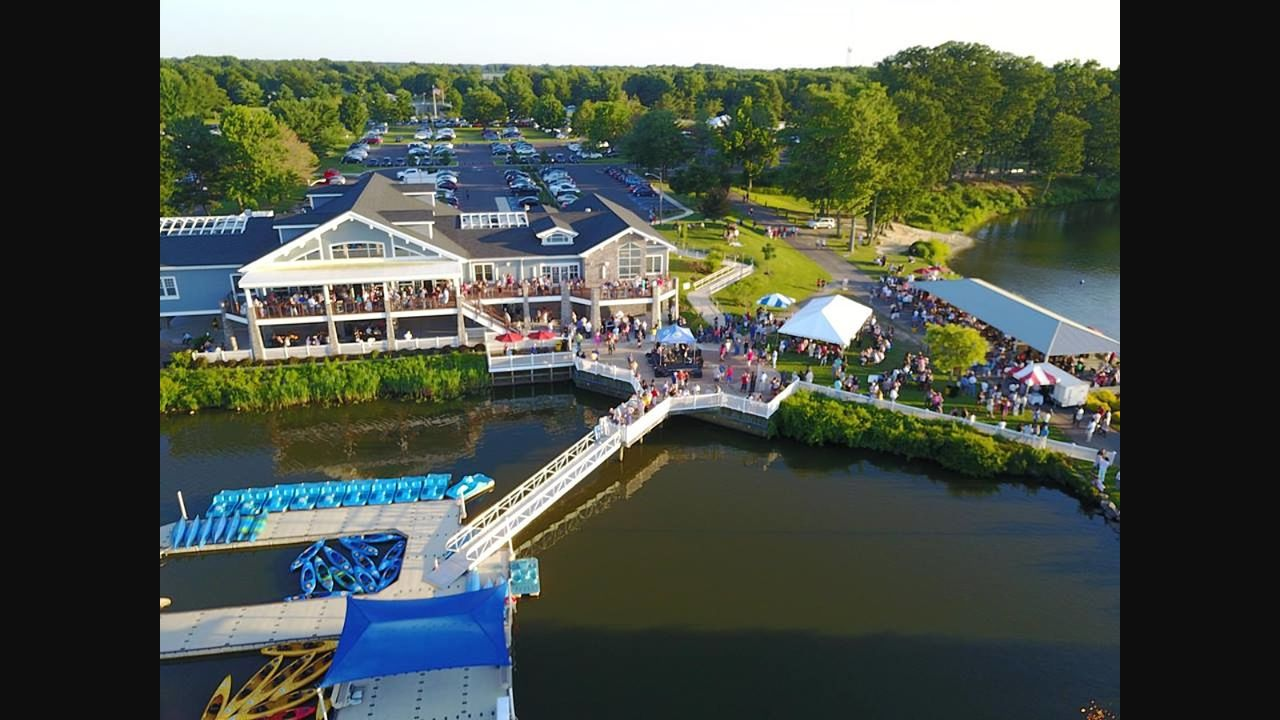
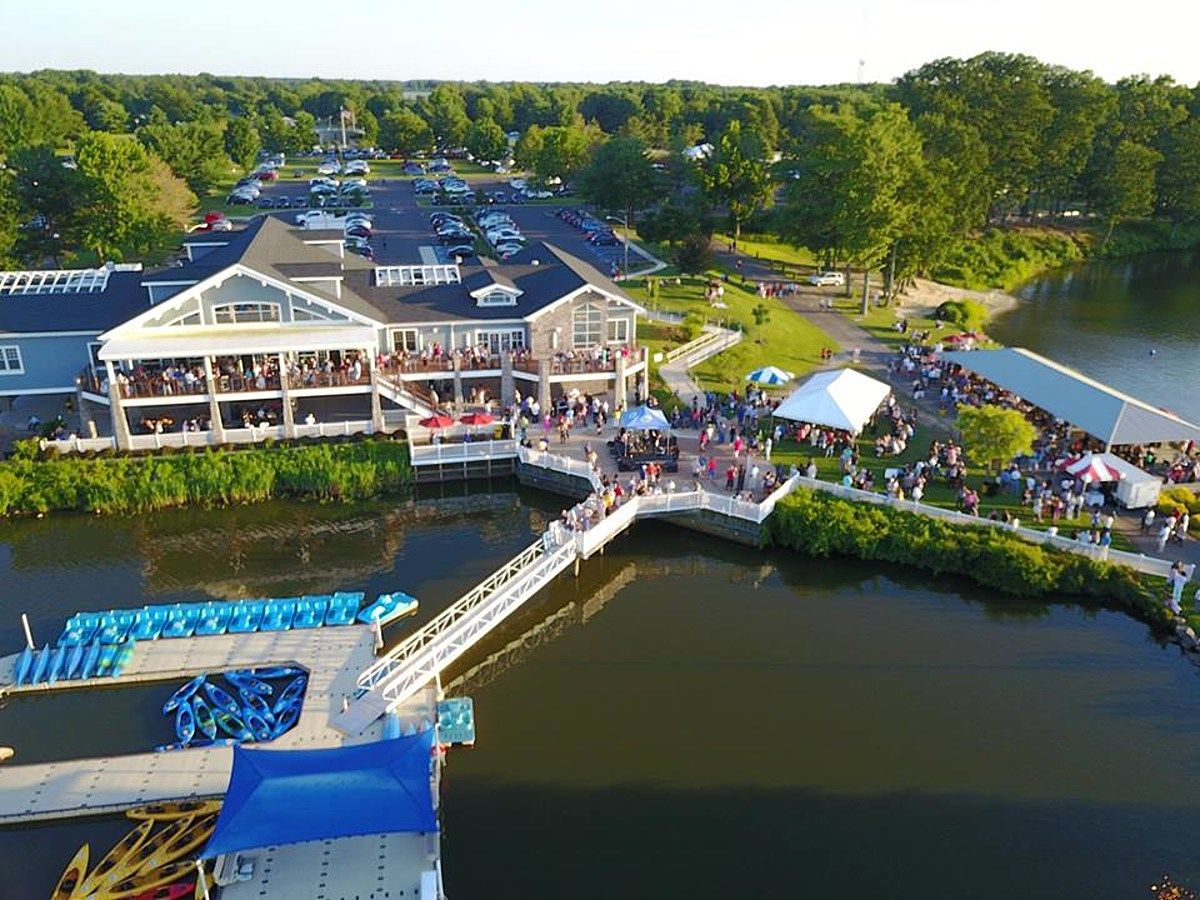
Fix images (remove letterbox bars), reframe Executive photo on Benson

diff --git a/src/App.css b/src/App.css
@@ -237,8 +237,8 @@ h4 { font-size: .9rem; font-weight: 700; color: var(--black); margin-bottom: 4px
 .exec-inner {
   display: grid; grid-template-columns: 340px 1fr; gap: 72px; align-items: start;
 }
-.exec-photo { border-radius: var(--r); overflow: hidden; height: 420px; }
-.exec-photo img { width: 100%; height: 100%; object-fit: cover; object-position: center top; }
+.exec-photo { border-radius: var(--r); overflow: hidden; height: 440px; }
+.exec-photo img { width: 100%; height: 100%; object-fit: cover; object-position: 72% center; }
 .exec-text { padding-top: 8px; }
 .exec-text blockquote {
   font-size: clamp(1.2rem, 2.2vw, 1.65rem); font-weight: 500;

diff --git a/src/data.ts b/src/data.ts
@@ -17,7 +17,7 @@ export const PHOTOS = {
   airport:      '/images/exec_page_bg.jpg',
   arts:         '/images/arts_culture.jpg',
   humanSvc:     '/images/human_svc_bg.jpg',
-  danBenson:    '/images/dan-benson.jpg',
+  danBenson:    '/images/exec_benson.jpg',
 };
 
 // Real nav from scraped site
